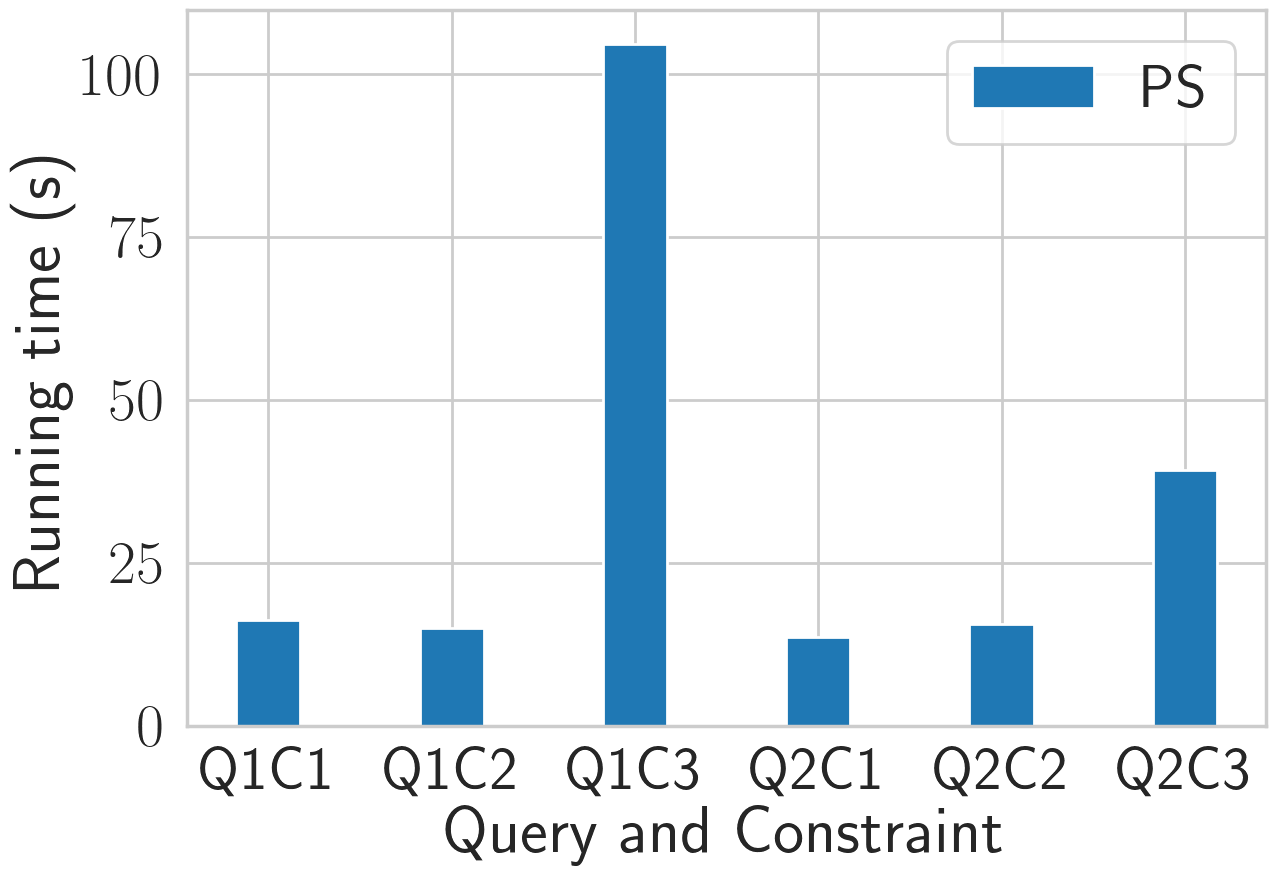
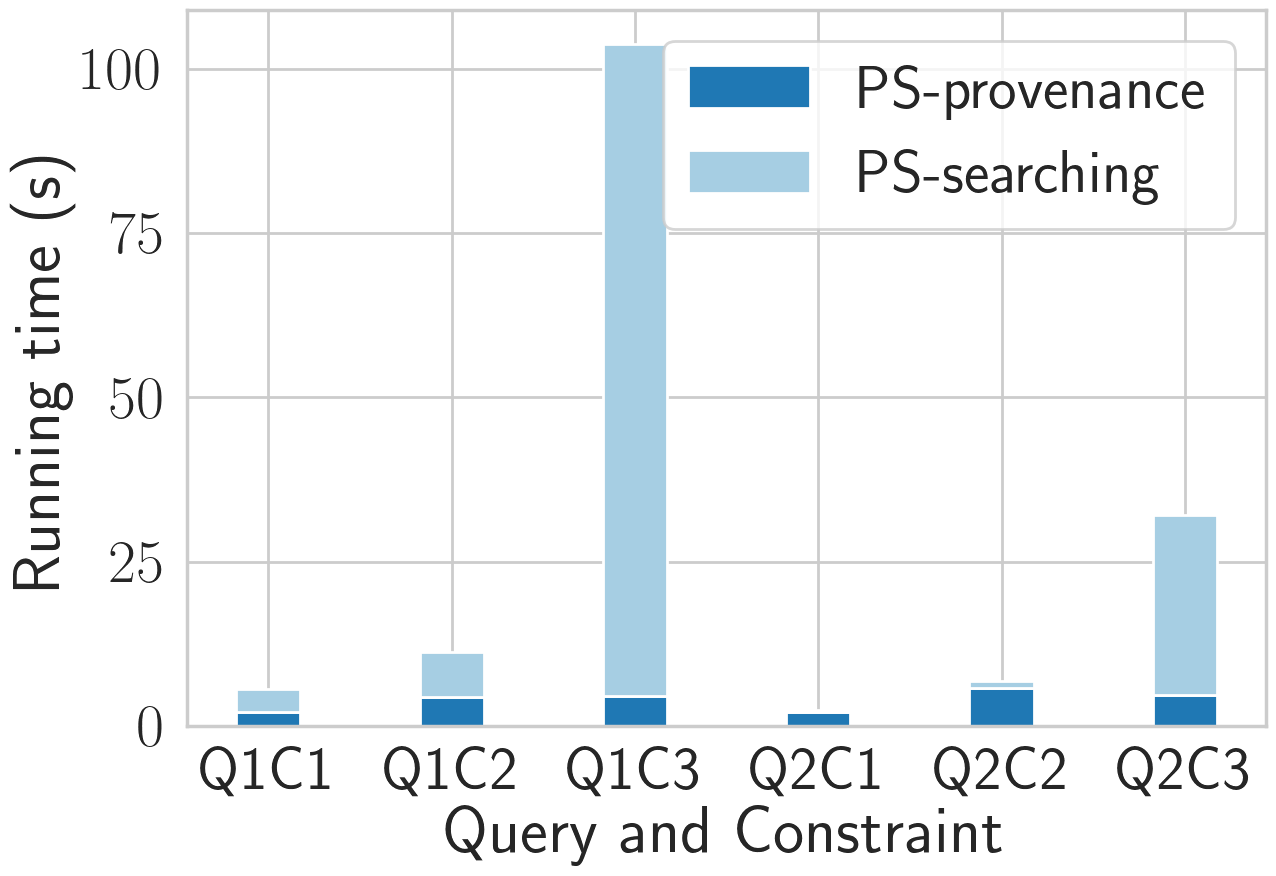
running time new fig

diff --git a/Experiment/compas/exp_2_runningtime/fig.py b/Experiment/compas/exp_2_runningtime/fig.py
@@ -14,18 +14,18 @@ sns.set_style("whitegrid")
 # sns.palplot(sns.color_palette("deep", 10))
 # sns.palplot(sns.color_palette("Paired", 9))
 
-color = ['C1', 'C3']
-label = ["PS", "LT"]
+color = ['C1', 'C0', 'C3']
+label = ['PS-provenance', "PS-searching", "LT"]
 
 f_size = (14, 10)
 
 
-
-
 x_list = list()
 x_naive = list()
-execution_timeps = list()
+execution_timeps1 = list()
+execution_timeps2 = list()
 execution_timelt = list()
+
 
 input_path = r'time.csv'
 input_file = open(input_path, "r")
@@ -44,28 +44,30 @@ for line in Lines:
         break
     items = line.strip().split(',')
     x_list.append(items[0])
-    execution_timeps.append(float(items[1]))
-    if len(items) > 2:
-        execution_timelt.append(float(items[2]))
+    execution_timeps1.append(float(items[1]))
+    execution_timeps2.append(float(items[2]))
+    if len(items) == 4:
+        execution_timelt.append(float(items[3]))
     else:
         execution_timelt.append(0)
-
-print(x_list, execution_timeps, execution_timelt)
+print(x_list, execution_timeps1, execution_timeps2)
 
 index = np.arange(len(x_list))
 bar_width = 0.35
 
 fig, ax = plt.subplots(1, 1, figsize=f_size)
 
-plt.bar(index, execution_timeps, bar_width, color=color[0], label=label[0])
-plt.bar(index + bar_width, execution_timelt, bar_width,  color=color[1], label=label[1])
+plt.bar(index, execution_timeps1, bar_width, color=color[0], label=label[0])
+plt.bar(index, execution_timeps2, bar_width, bottom=execution_timeps1,
+        color=color[1], label=label[1])
+plt.bar(index + bar_width, execution_timelt, bar_width,  color=color[2], label=label[2])
 plt.xticks(index + bar_width, x_list)
 
 plt.xlabel('Query and Constraint')
 plt.ylabel('Running time (s)')
 plt.yscale('log')
-plt.legend(loc='best')
-
+# plt.legend(loc='best', fontsize=35)
+plt.legend(loc='upper right', bbox_to_anchor=(1.0, 0.97))
 plt.tight_layout()
 plt.savefig("compas_time.png", bbox_inches='tight')
 plt.show()

diff --git a/Experiment/adult/exp_2_runningtime/fig.py b/Experiment/adult/exp_2_runningtime/fig.py
@@ -6,7 +6,6 @@ import numpy as np
 plt.rc('text', usetex=True)
 plt.rc('font', family='serif')
 
-
 sns.set_palette("Paired")
 # sns.set_palette("deep")
 sns.set_context("poster", font_scale=2)
@@ -14,18 +13,18 @@ sns.set_style("whitegrid")
 # sns.palplot(sns.color_palette("deep", 10))
 # sns.palplot(sns.color_palette("Paired", 9))
 
-color = ['C1', 'C3']
-label = ["PS", "LT"]
+color = ['C1', 'C0', 'C3']
+label = ['PS-provenance', "PS-searching", "LT"]
 
 f_size = (14, 10)
 
-
-
-
 x_list = list()
 x_naive = list()
-execution_timeps = list()
+execution_timeps1 = list()
+execution_timeps2 = list()
 execution_timelt = list()
+
+
 
 input_path = r'time.csv'
 input_file = open(input_path, "r")
@@ -44,21 +43,23 @@ for line in Lines:
         break
     items = line.strip().split(',')
     x_list.append(items[0])
-    execution_timeps.append(float(items[1]))
-    if len(items) == 3:
-        execution_timelt.append(float(items[2]))
+    execution_timeps1.append(float(items[1]))
+    execution_timeps2.append(float(items[2]))
+    if len(items) == 4:
+        execution_timelt.append(float(items[3]))
     else:
         execution_timelt.append(0)
 
-print(x_list, execution_timeps, execution_timelt)
+print(x_list, execution_timeps1, execution_timeps2)
 
 index = np.arange(len(x_list))
 bar_width = 0.35
 
 fig, ax = plt.subplots(1, 1, figsize=f_size)
 
-plt.bar(index, execution_timeps, bar_width, color=color[0], label=label[0])
-# plt.bar(index + bar_width, execution_timelt, bar_width,  color=color[1], label=label[1])
+plt.bar(index, execution_timeps1, bar_width, color=color[0], label=label[0])
+plt.bar(index, execution_timeps2, bar_width, bottom=execution_timeps1,
+        color=color[1], label=label[1])
 plt.xticks(index, x_list)
 
 plt.xlabel('Query and Constraint')

diff --git a/Experiment/healthcare/exp_2_runningtime/fig.py b/Experiment/healthcare/exp_2_runningtime/fig.py
@@ -15,7 +15,7 @@ sns.set_style("whitegrid")
 # sns.palplot(sns.color_palette("Paired", 9))
 
 color = ['C1', 'C0', 'C3']
-label = ["PS_provenance", "PS_searching", "LT"]
+label = ["PS-provenance", "PS-searching", "LT"]
 f_size = (14, 10)
 x_list = list()
 x_naive = list()
